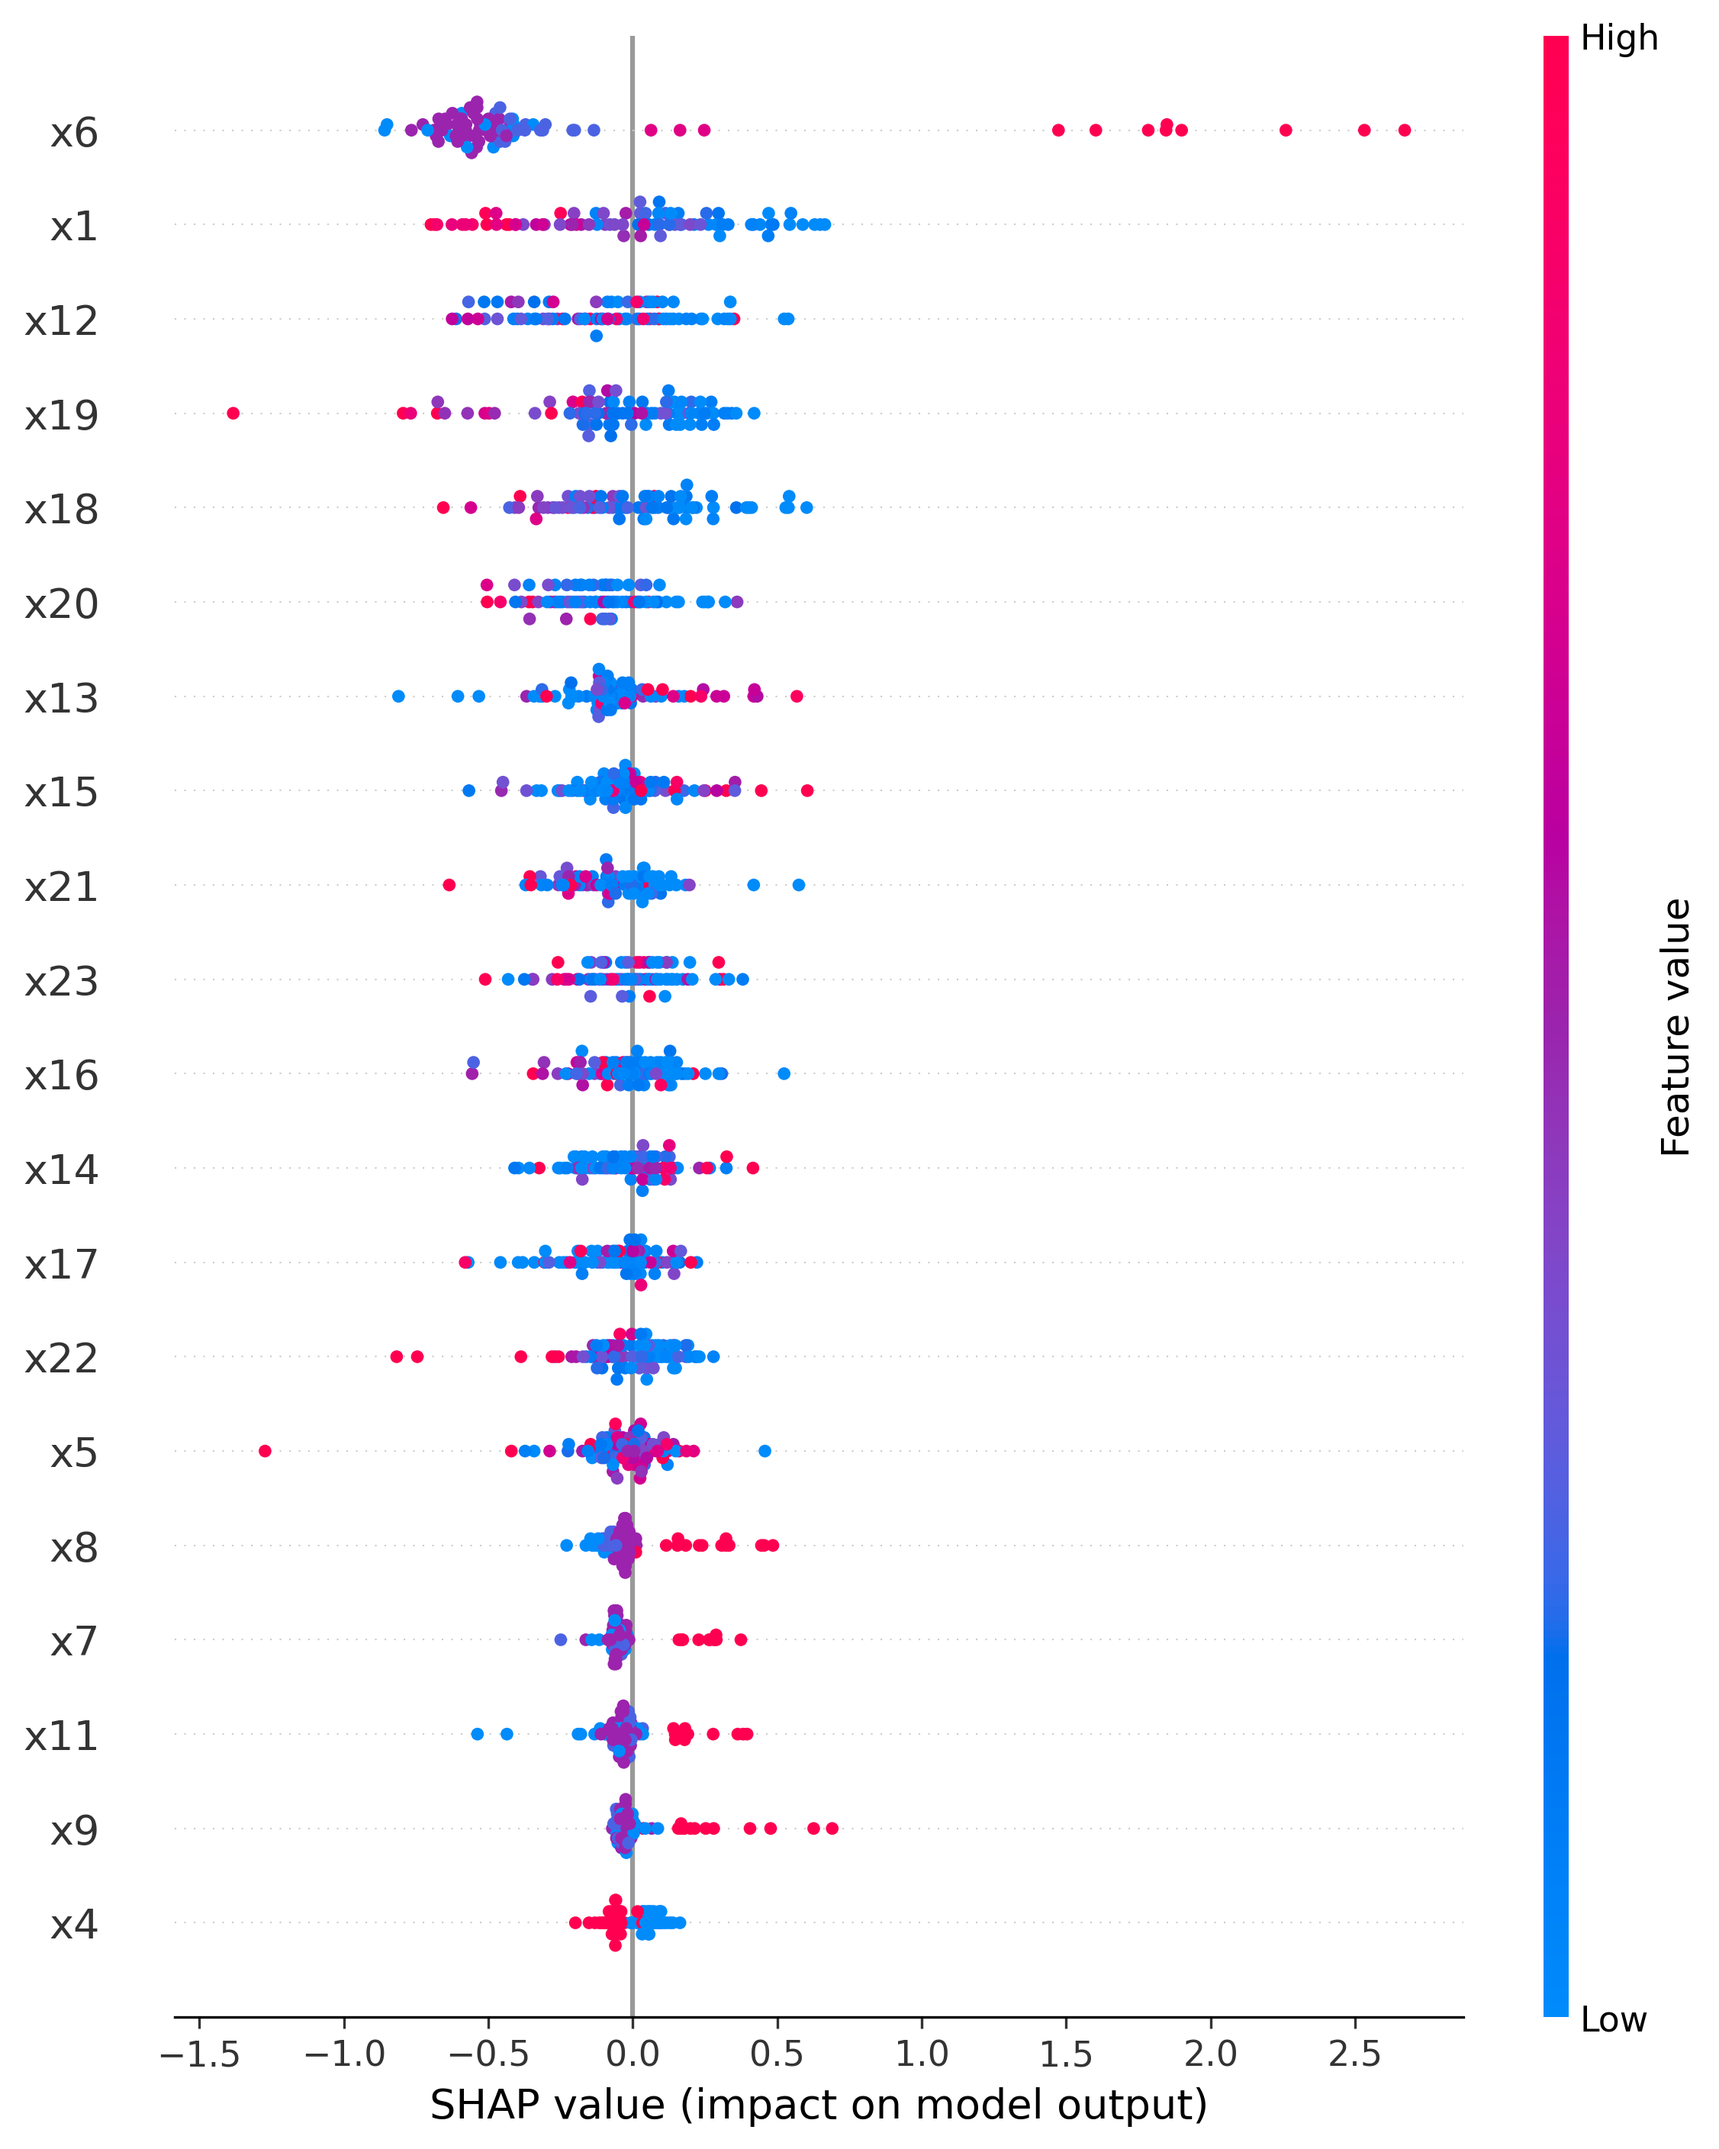
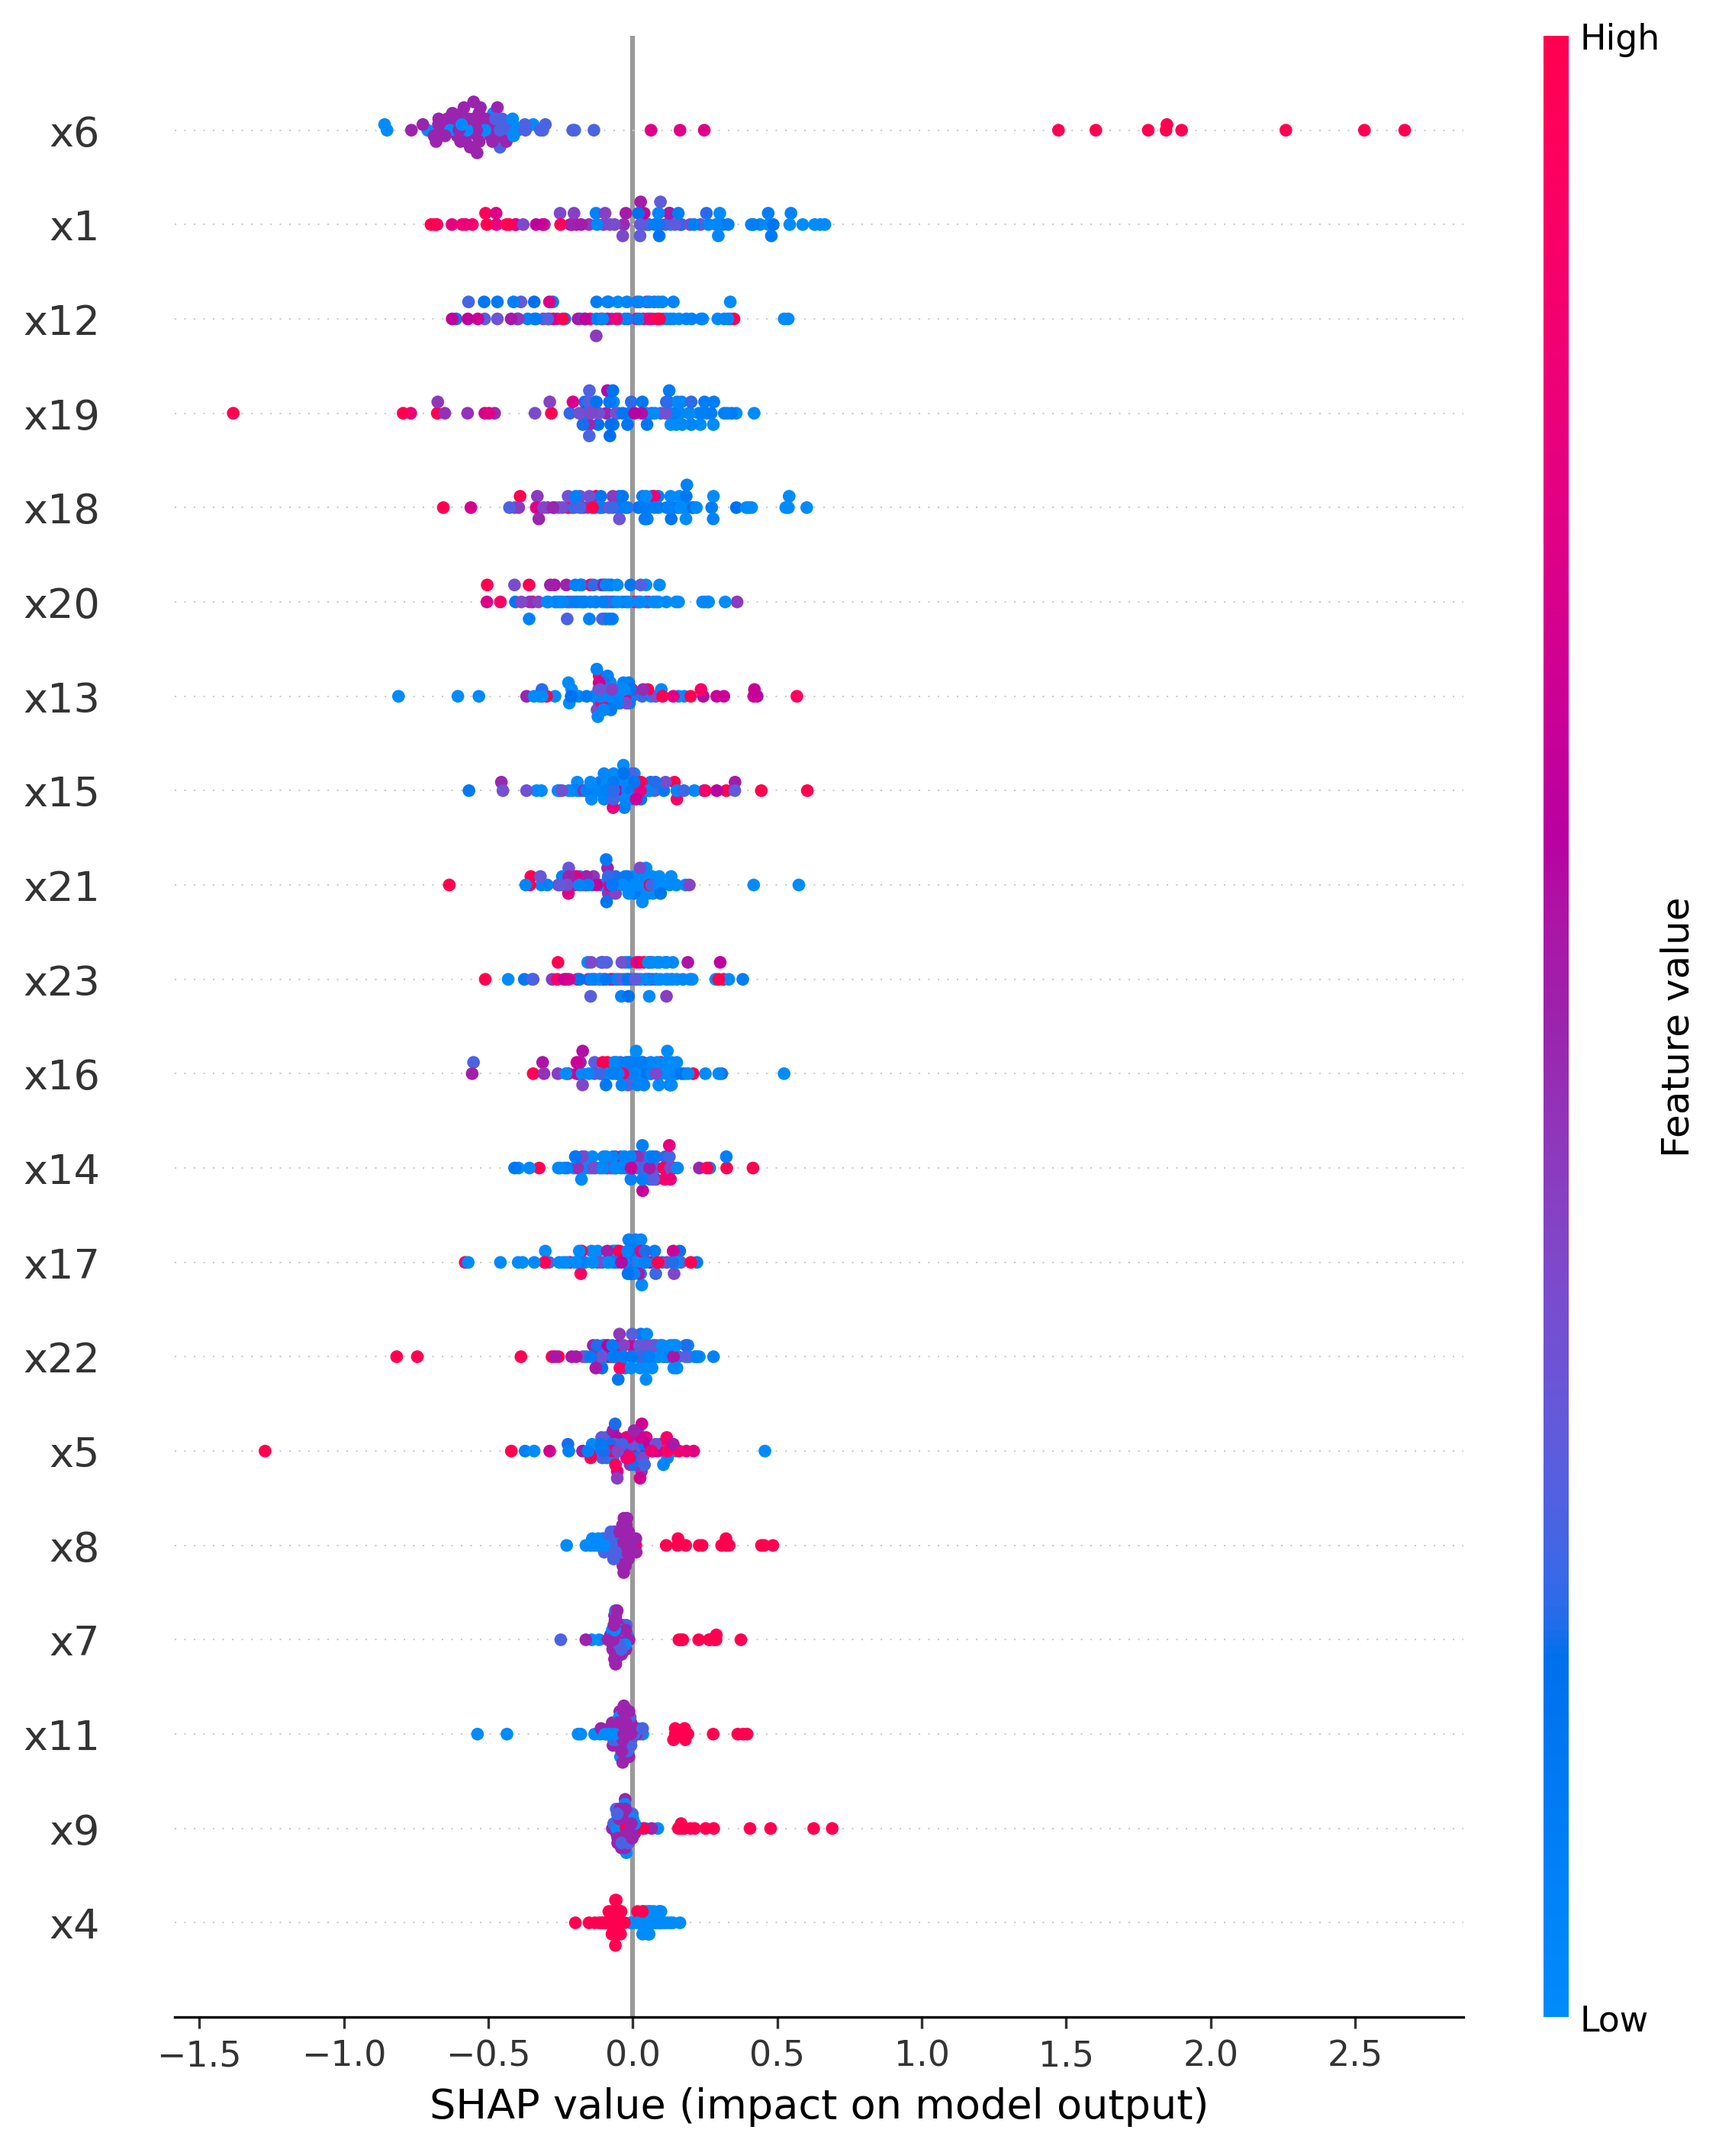
add: radar generator + updated SHAP figures

diff --git a/src/generate_radar.py b/src/generate_radar.py
@@ -1,0 +1,32 @@
+import matplotlib.pyplot as plt
+import numpy as np
+
+models = ["LogReg", "RandomForest", "XGBoost"]
+
+accuracy = [0.68, 0.81, 0.76]
+interpretability = [0.9, 0.5, 0.4]
+explainability = [0.85, 0.75, 0.8]
+
+data = [accuracy, interpretability, explainability]
+labels = ["Accuracy", "Interpretability", "Explainability"]
+
+angles = np.linspace(0, 2*np.pi, len(labels), endpoint=False)
+angles = np.concatenate([angles, [angles[0]]])
+
+fig = plt.figure(figsize=(6,6))
+ax = plt.subplot(111, polar=True)
+
+for i, model in enumerate(models):
+    values = [data[j][i] for j in range(len(labels))]
+    values.append(values[0])
+    ax.plot(angles, values, label=model)
+    ax.fill(angles, values, alpha=0.1)
+
+ax.set_xticks(angles[:-1])
+ax.set_xticklabels(labels)
+
+plt.legend()
+plt.title("Model Comparison Radar")
+
+plt.savefig("figures/comprehensive_comparison_radar.png", dpi=300)
+plt.show()
